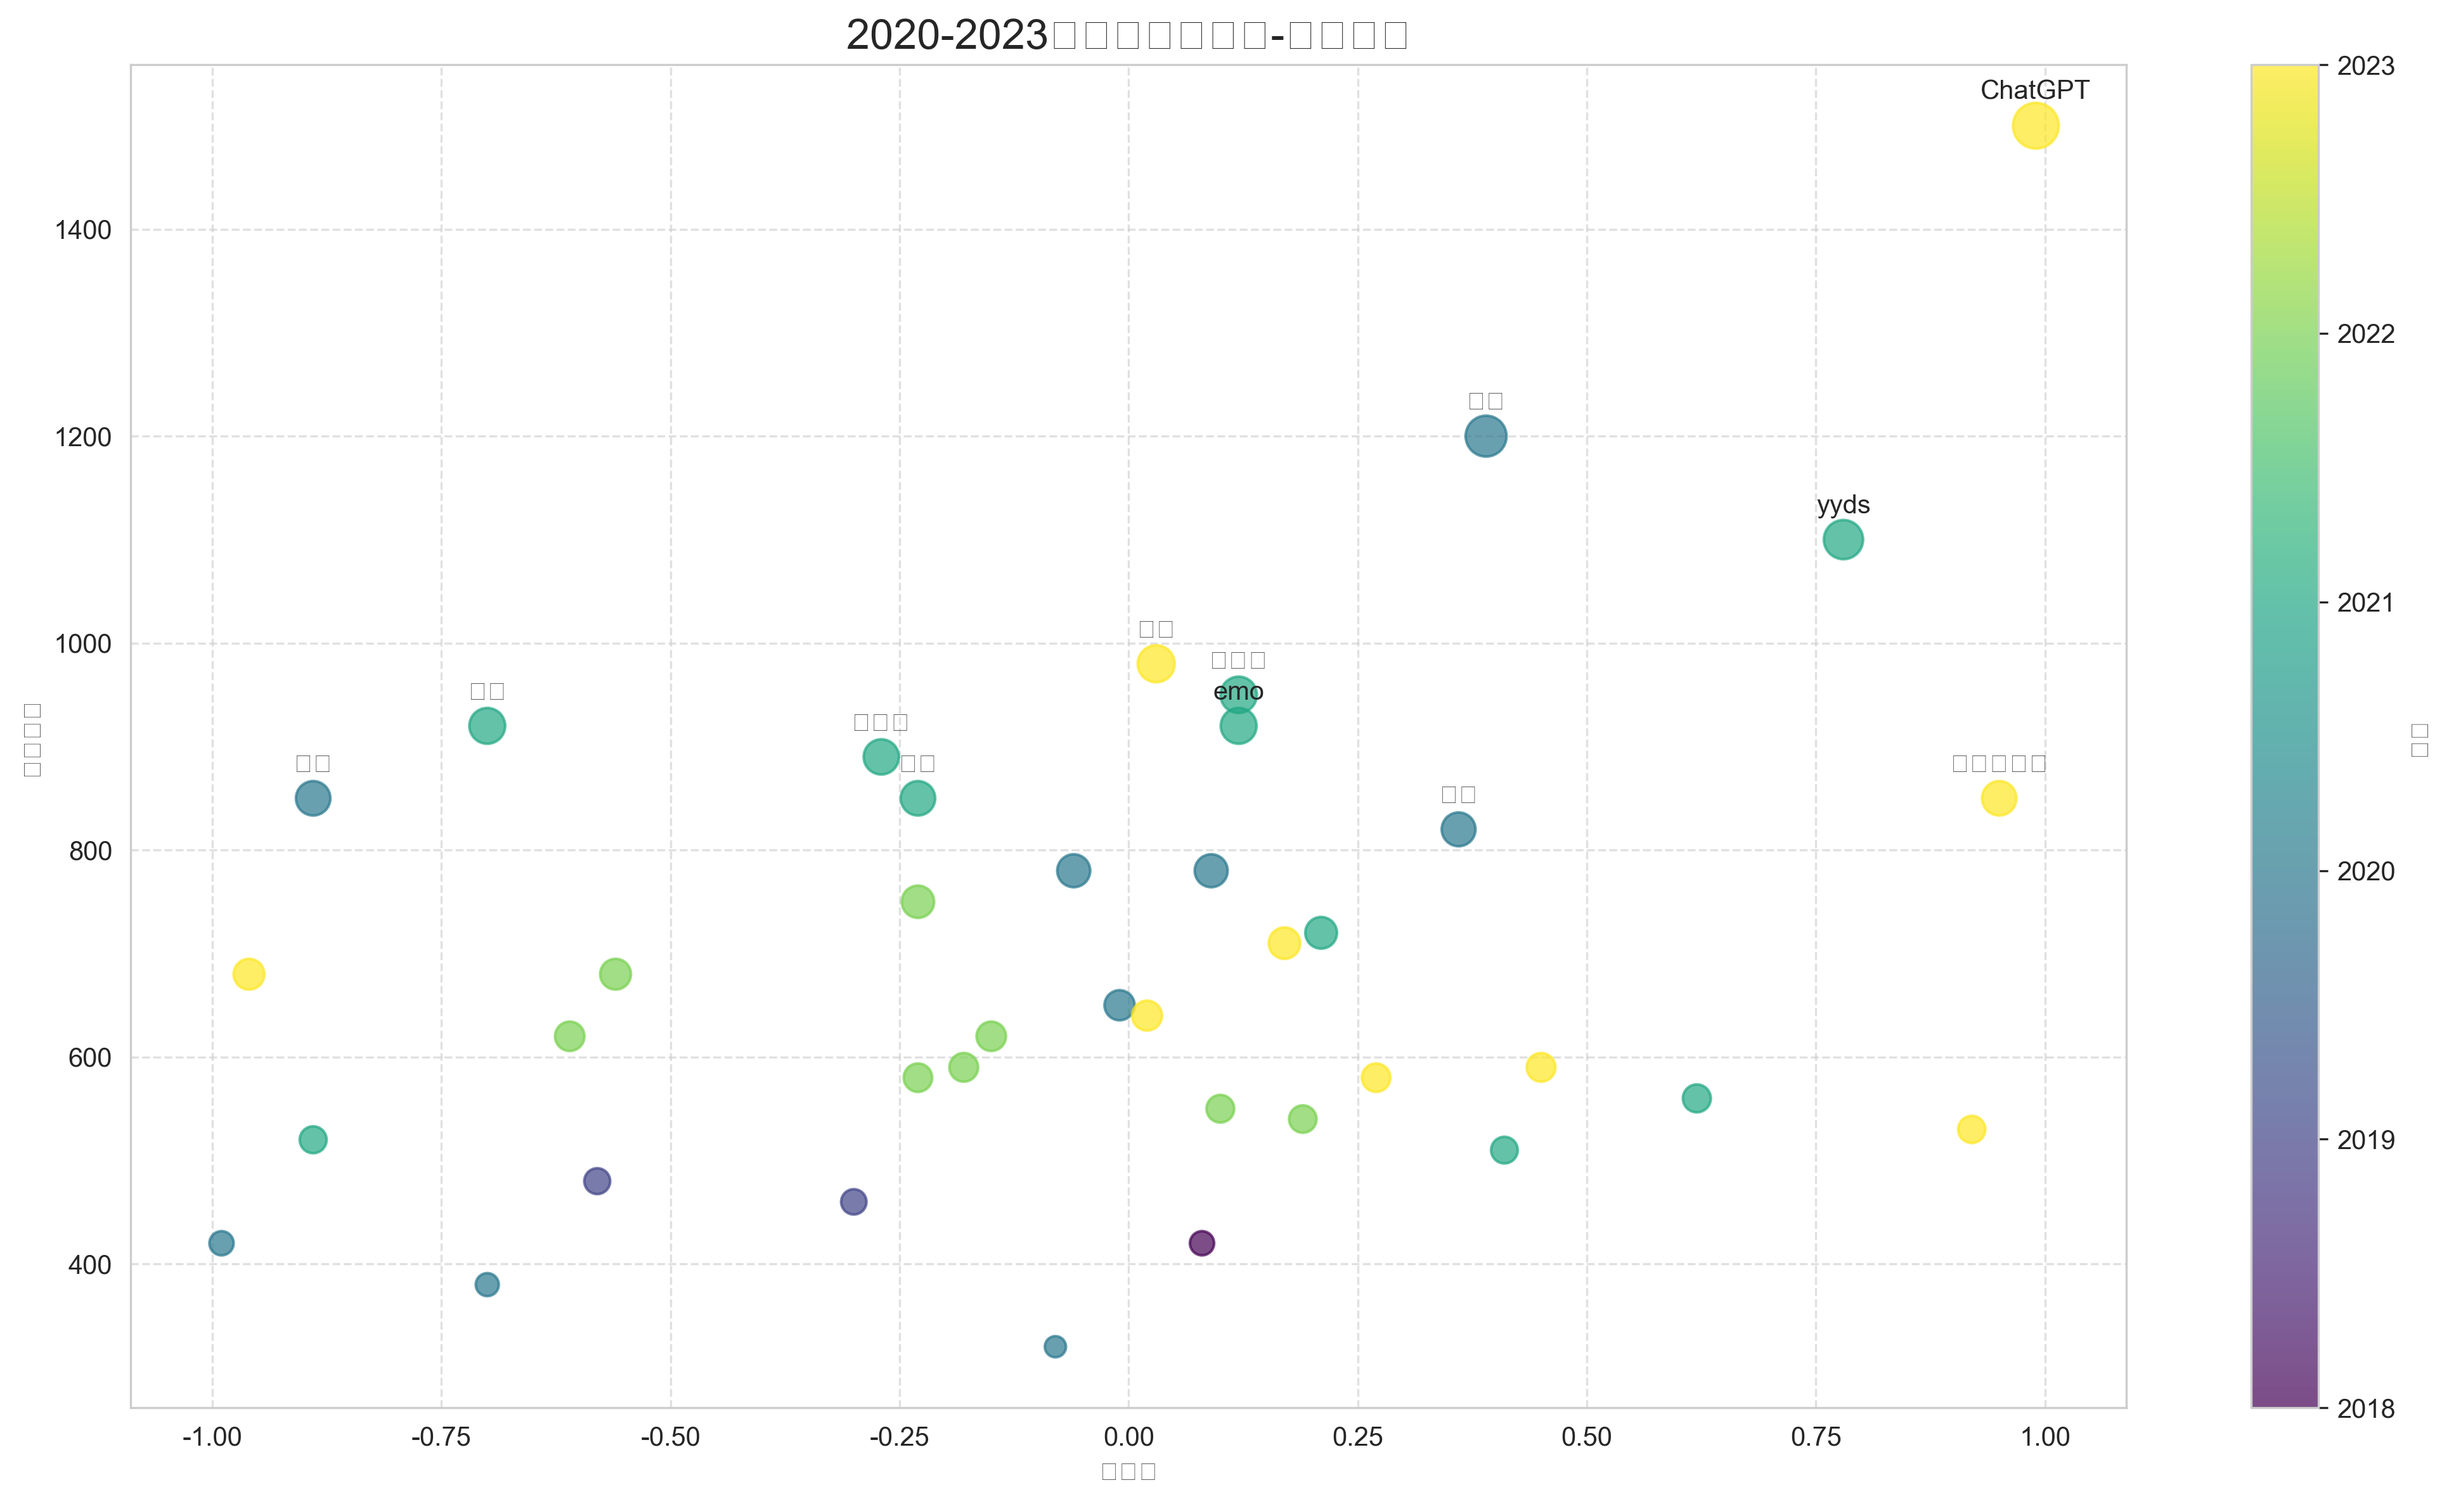
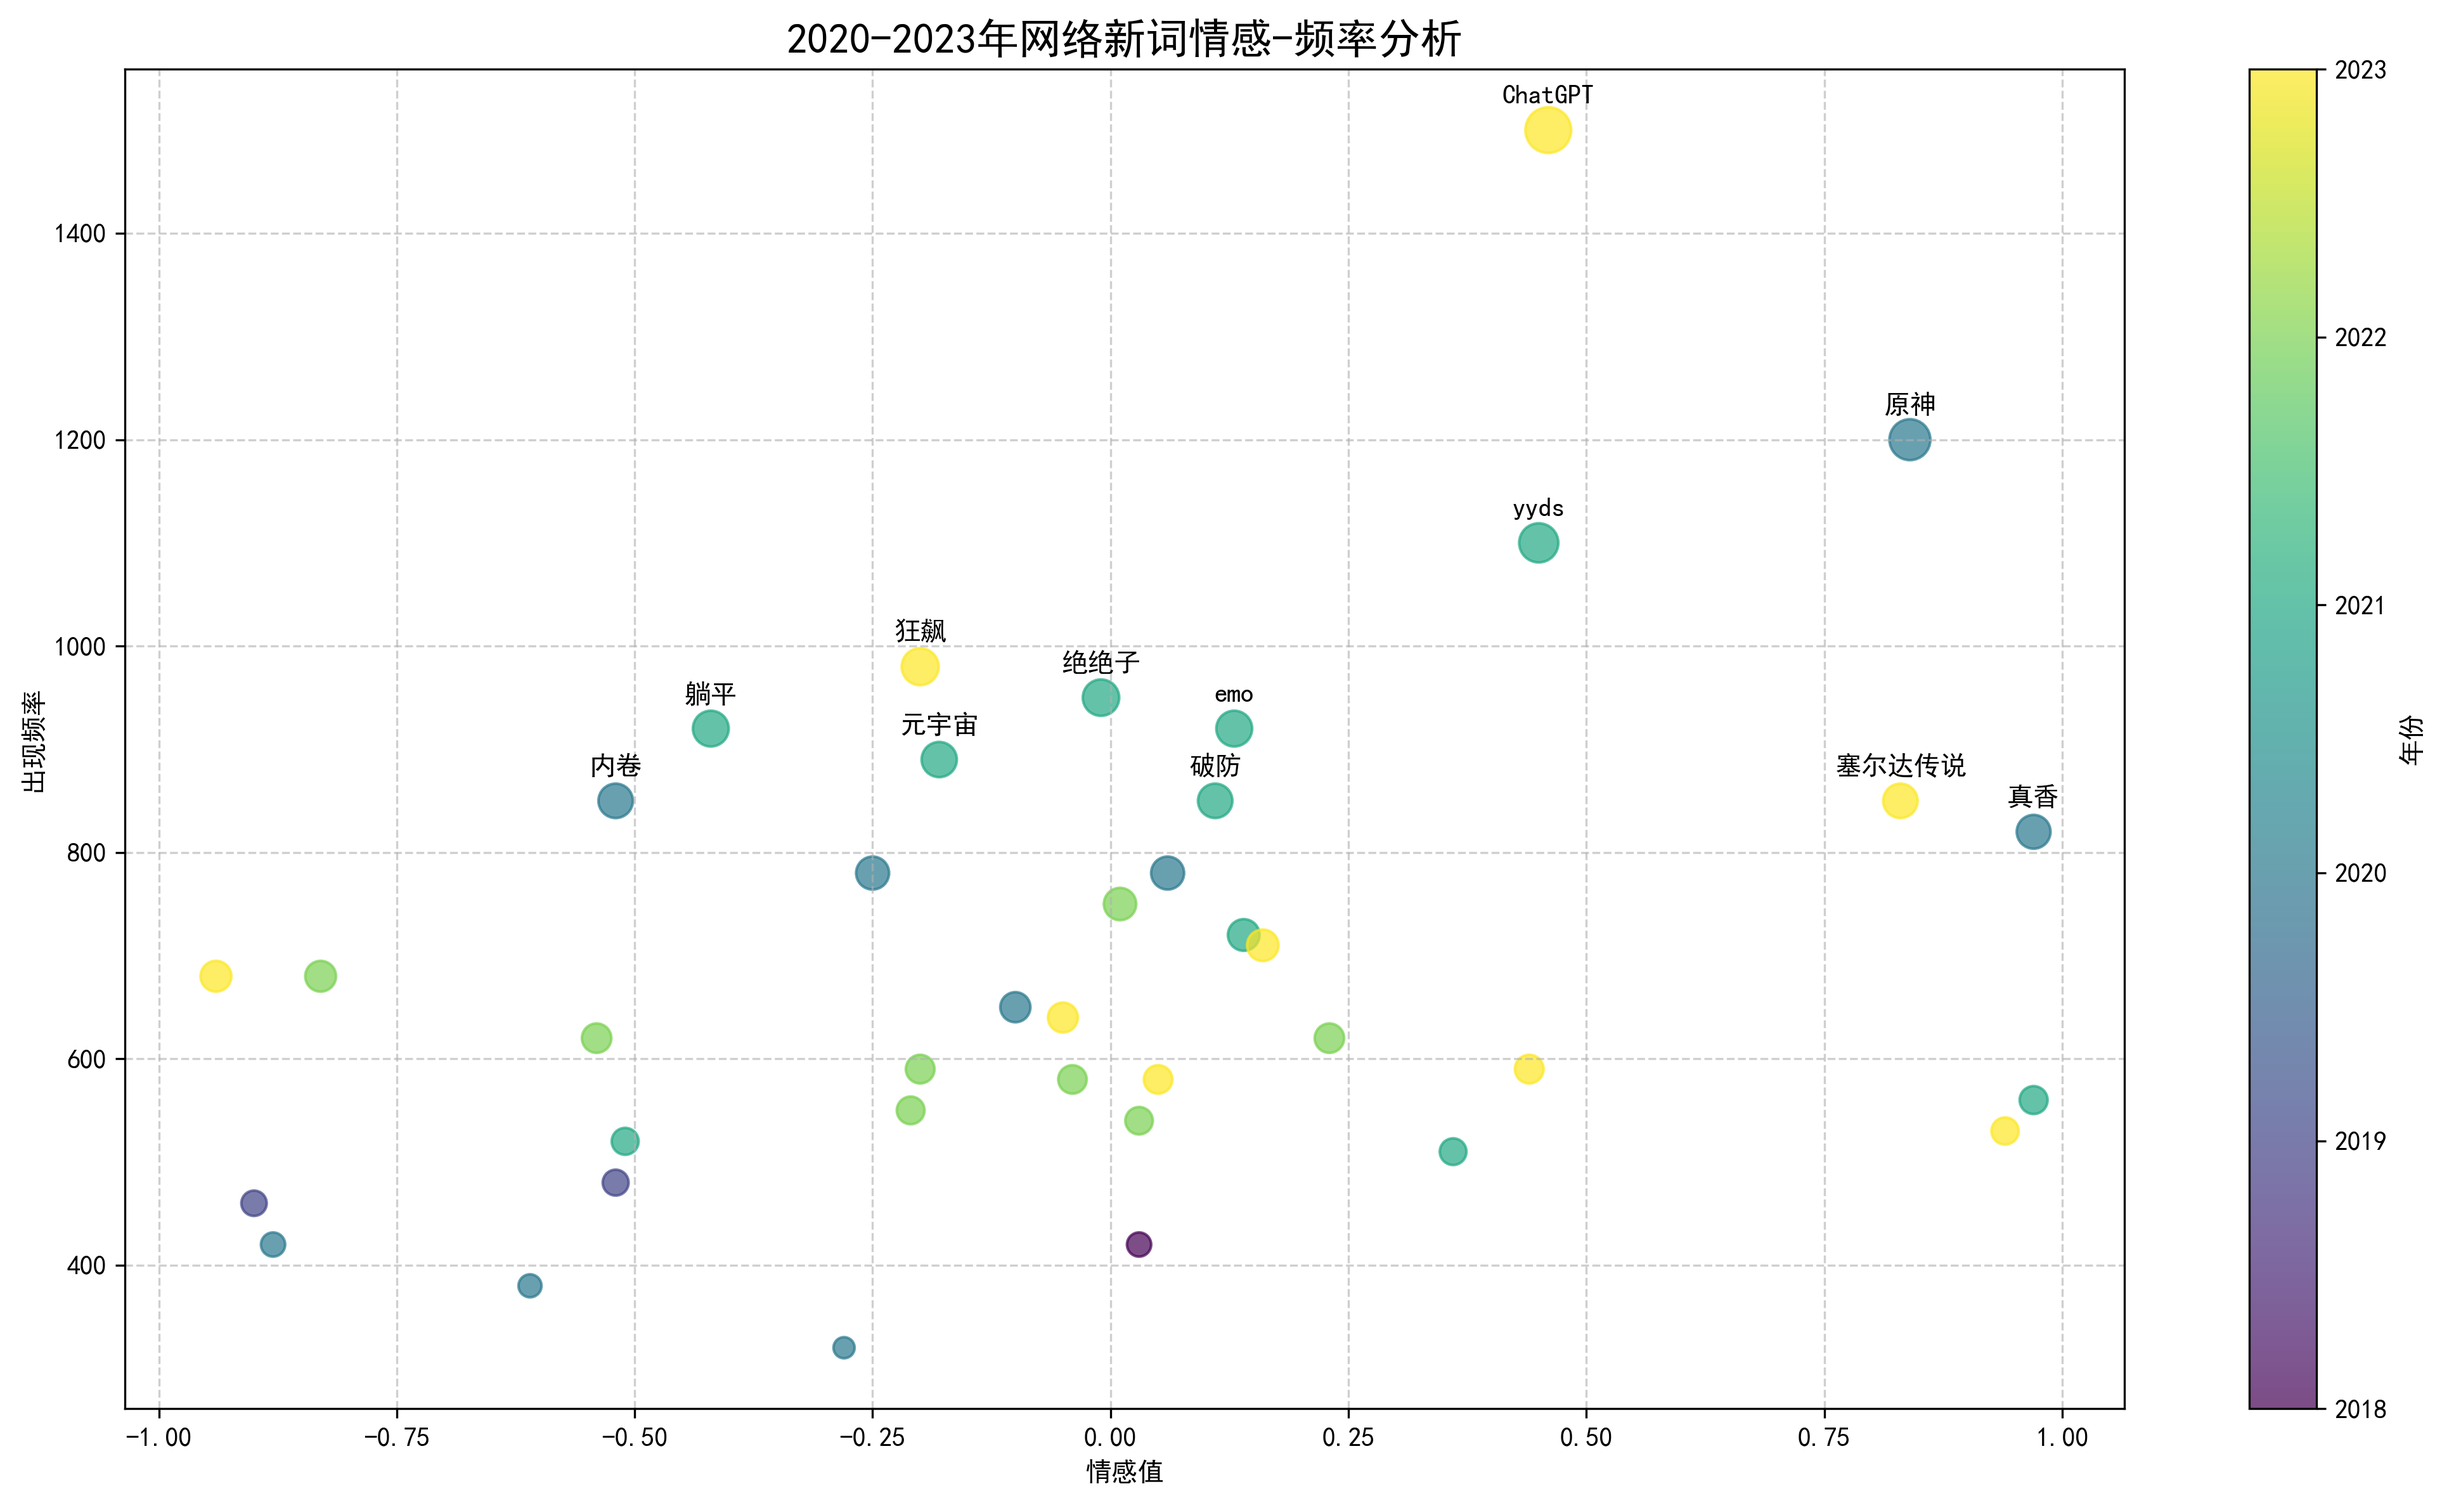
课程设计修改完善

diff --git a/text_homework/course_deside/text_mining_design.py b/text_homework/course_deside/text_mining_design.py
@@ -2,7 +2,7 @@
 # 文本信息挖掘课程设计：基于主题模型的网络新词演化分析
 # 班级：XX班 | 学号：XXXXXX | 姓名：XXX
 # 日期：2023年6月
-
+import matplotlib.font_manager as fm
 import pandas as pd
 import numpy as np
 import matplotlib.pyplot as plt
@@ -24,12 +24,38 @@ os.environ['CURL_CA_BUNDLE'] = ''
 warnings.filterwarnings('ignore')
 
 # 设置中文显示
-plt.rcParams['font.sans-serif'] = ['SimHei']  # 使用黑体
-plt.rcParams['axes.unicode_minus'] = False  # 解决负号显示问题
-sns.set_style("whitegrid")
+# 设置中文字体支持
+plt.rcParams['font.sans-serif'] = ['SimHei', 'Microsoft YaHei', 'WenQuanYi Micro Hei']
+plt.rcParams['axes.unicode_minus'] = False
+plt.rcParams['figure.facecolor'] = 'white'
 
 # 创建输出目录
 os.makedirs("output", exist_ok=True)
+def find_chinese_font():
+    """查找系统中可用的中文字体"""
+    # 常见中文字体名称
+    chinese_fonts = [
+        'SimHei', 'Microsoft YaHei', 'KaiTi', 'SimSun',
+        'FangSong', 'STSong', 'STKaiti', 'STFangsong',
+        'WenQuanYi Micro Hei', 'Source Han Sans SC',
+        'Noto Sans CJK SC', 'WenQuanYi Zen Hei'
+    ]
+
+    # 获取系统所有字体
+    system_fonts = fm.findSystemFonts()
+    for font_name in chinese_fonts:
+        for font_path in system_fonts:
+            if font_name.lower() in os.path.basename(font_path).lower():
+                return font_path
+
+    # 备选方案：查找包含"黑体"、"宋体"等关键字的字体
+    keywords = ['hei', 'song', 'kai', 'fang', 'st', 'cjk', 'sc', 'chinese', '中文']
+    for font_path in system_fonts:
+        font_name = os.path.basename(font_path).lower()
+        if any(kw in font_name for kw in keywords):
+            return font_path
+    return None  # 未找到中文字体
+
 
 # ======================
 # 1. 数据准备与预处理
@@ -220,61 +246,130 @@ def analyze_topic_locally(keywords):
 
 
 def generate_concept_image(keyword, filename):
-    """本地生成概念图像"""
-    # 颜色主题
+    """本地生成概念图像 - 无emoji版本"""
+    # 更丰富的颜色主题
     themes = {
-        "社会": ("#e74c3c", "#c0392b"),
-        "娱乐": ("#3498db", "#2980b9"),
-        "政治": ("#9b59b6", "#8e44ad"),
-        "科技": ("#2ecc71", "#27ae60"),
-        "生活": ("#f39c12", "#d35400"),
-        "心理": ("#1abc9c", "#16a085"),
-        "态度": ("#e67e22", "#d35400"),
-        "网络": ("#34495e", "#2c3e50"),
-        "时尚": ("#e84393", "#d63031"),
-        "教育": ("#0984e3", "#6c5ce7"),
-        "体育": ("#00cec9", "#00b894")
+        "社会": (["#ff9a9e", "#fad0c4"], "#d63031"),  # 柔和的粉色渐变
+        "娱乐": (["#a1c4fd", "#c2e9fb"], "#0984e3"),  # 蓝色渐变
+        "政治": (["#fbc2eb", "#a6c1ee"], "#6c5ce7"),  # 紫色渐变
+        "科技": (["#d4fc79", "#96e6a1"], "#00b894"),  # 绿色渐变
+        "生活": (["#f6d365", "#fda085"], "#e17055"),  # 橙色渐变
+        "心理": (["#84fab0", "#8fd3f4"], "#00cec9"),  # 青蓝色渐变
+        "态度": (["#ffecd2", "#fcb69f"], "#e84393"),  # 粉色渐变
+        "网络": (["#cd9cf2", "#f6f3ff"], "#2d3436"),  # 紫色渐变
+        "时尚": (["#ff9a9e", "#fecfef"], "#e84393"),  # 粉紫色渐变
+        "教育": (["#a1c4fd", "#d4fc79"], "#6c5ce7"),  # 蓝绿色渐变
+        "体育": (["#4facfe", "#00f2fe"], "#00b894")  # 蓝色渐变
     }
 
-    # 获取关键词类别
-    category = df[df['keyword'] == keyword]['category'].values[0]
-    bg_color, text_color = themes.get(category, ("#2c3e50", "#ecf0f1"))
+    # 获取关键词信息
+    row = df[df['keyword'] == keyword].iloc[0]
+    category = row['category']
+    sentiment = row['sentiment']
+    frequency = row['frequency']
+    year = row['year'].year
 
-    # 创建图像
-    img = Image.new('RGB', (600, 400), color=bg_color)
+    # 获取颜色主题
+    bg_colors, text_color = themes.get(category, (["#74ebd5", "#ACB6E5"], "#2c3e50"))
+
+    # 创建图像 - 更大尺寸
+    img = Image.new('RGB', (800, 500), color=bg_colors[0])
     d = ImageDraw.Draw(img)
 
-    # 添加标题
+    # 创建渐变背景
+    for i in range(img.height):
+        # 计算当前行的颜色
+        ratio = i / img.height
+        r1, g1, b1 = [int(bg_colors[0][j:j + 2], 16) for j in (1, 3, 5)]
+        r2, g2, b2 = [int(bg_colors[1][j:j + 2], 16) for j in (1, 3, 5)]
+
+        r = int(r1 + (r2 - r1) * ratio)
+        g = int(g1 + (g2 - g1) * ratio)
+        b = int(b1 + (b2 - b1) * ratio)
+
+        d.line([(0, i), (img.width, i)], fill=(r, g, b))
+
+    # 添加装饰性圆形
+    for _ in range(15):
+        x, y = random.randint(0, img.width), random.randint(0, img.height)
+        r = random.randint(20, 100)
+        alpha = random.randint(20, 60)
+
+        # 提取文本颜色的RGB值
+        hex_color = text_color.lstrip('#')
+        r_val = int(hex_color[0:2], 16)
+        g_val = int(hex_color[2:4], 16)
+        b_val = int(hex_color[4:6], 16)
+
+        # 创建半透明圆形
+        circle_img = Image.new('RGBA', (r * 2, r * 2), (0, 0, 0, 0))
+        circle_draw = ImageDraw.Draw(circle_img)
+        circle_draw.ellipse((0, 0, r * 2, r * 2), fill=(r_val, g_val, b_val, alpha))
+        img.paste(circle_img, (x - r, y - r), circle_img)
+
+    # 添加半透明矩形作为文字背景
+    # 提取文本颜色的RGB值
+    hex_color = text_color.lstrip('#')
+    r_val = int(hex_color[0:2], 16)
+    g_val = int(hex_color[2:4], 16)
+    b_val = int(hex_color[4:6], 16)
+
+    text_bg = Image.new('RGBA', (700, 300), (r_val, g_val, b_val, 30))
+    img.paste(text_bg, (50, 100), text_bg)
+
+    # 添加装饰边框
+    d.rectangle([40, 90, img.width - 40, img.height - 10], outline=text_color, width=3)
+
     try:
-        font_large = ImageFont.truetype("simhei.ttf", 40)
-        font_small = ImageFont.truetype("simhei.ttf", 24)
+        # 尝试加载不同大小的字体
+        font_title = ImageFont.truetype("simhei.ttf", 60)
+        font_category = ImageFont.truetype("simhei.ttf", 36)
+        font_details = ImageFont.truetype("simhei.ttf", 28)
+        font_sentiment = ImageFont.truetype("simhei.ttf", 32)  # 新增情感描述字体
     except:
-        font_large = ImageFont.load_default()
-        font_small = ImageFont.load_default()
+        # 回退到默认字体
+        font_title = ImageFont.load_default()
+        font_category = ImageFont.load_default()
+        font_details = ImageFont.load_default()
+        font_sentiment = ImageFont.load_default()
 
-    d.text((50, 50), f"概念图: {keyword}", font=font_large, fill=text_color)
+    # 添加标题
+    d.text((img.width // 2, 140), keyword, font=font_title, fill=text_color, anchor="mm")
 
-    # 添加描述
-    descriptions = [
-        f"类别: {category}",
-        f"情感值: {df[df['keyword'] == keyword]['sentiment'].values[0]:.2f}",
-        f"出现频率: {df[df['keyword'] == keyword]['frequency'].values[0]}",
-        f"年份: {df[df['keyword'] == keyword]['year'].dt.year.values[0]}"
+    # 添加类别标签
+    d.rectangle([img.width // 2 - 110, 190, img.width // 2 + 110, 260], fill="white")
+    d.text((img.width // 2, 225), f"类别: {category}", font=font_category, fill=text_color, anchor="mm")
+
+    # 添加详细信息
+    details_y = 280
+    details = [
+        f"情感值: {sentiment:.2f}",
+        f"出现频率: {frequency}次",
+        f"年份: {year}年"
     ]
 
-    for i, desc in enumerate(descriptions):
-        d.text((80, 150 + i * 50), desc, font=font_small, fill=text_color)
+    for i, detail in enumerate(details):
+        d.text((img.width // 2, details_y + i * 50), detail, font=font_details, fill=text_color, anchor="mm")
 
-    # 添加装饰元素
-    for _ in range(10):
-        x, y = random.randint(0, 550), random.randint(0, 350)
-        r = random.randint(5, 20)
-        d.ellipse([x, y, x + r, y + r], fill=text_color)
+    sentiment_desc = ""
+    sentiment_color = text_color
+
+    if sentiment > 0.3:
+        sentiment_desc = "正面情感"
+        sentiment_color = "#27ae60"  # 绿色表示正面
+    elif sentiment < -0.3:
+        sentiment_desc = "负面情感"
+        sentiment_color = "#e74c3c"  # 红色表示负面
+    else:
+        sentiment_desc = "中性情感"
+        sentiment_color = "#f39c12"  # 黄色表示中性
+
+    # 添加情感标签
+    d.rectangle([img.width // 2 - 100, 390, img.width // 2 + 100, 440], fill=sentiment_color)
+    d.text((img.width // 2, 415), sentiment_desc, font=font_sentiment, fill="white", anchor="mm")
 
     img.save(filename)
     return filename
-
-
 # 使用本地方法分析职场主题 - 移除了"996"
 workplace_keywords = ["内卷", "躺平", "00后整顿职场"]
 workplace_analysis = analyze_topic_locally(workplace_keywords)
